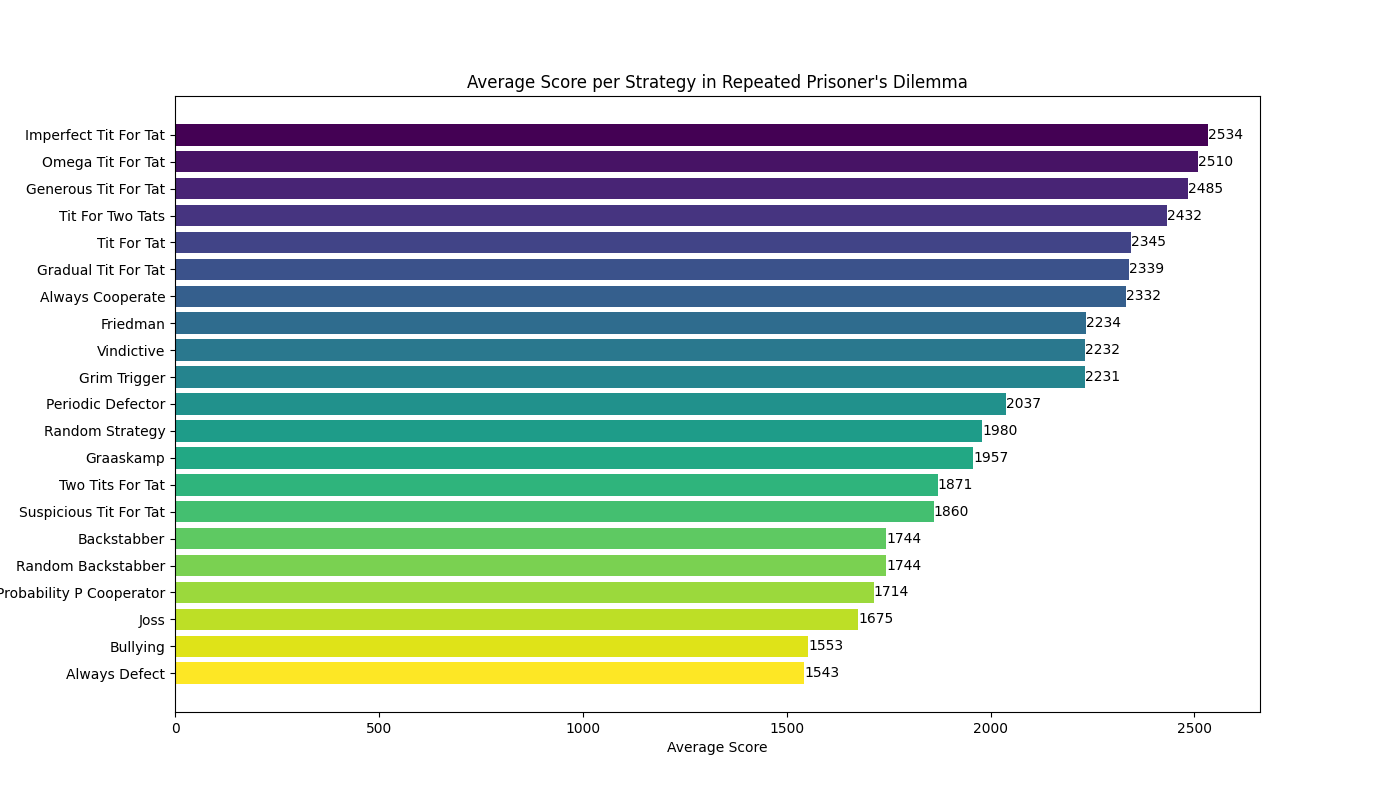
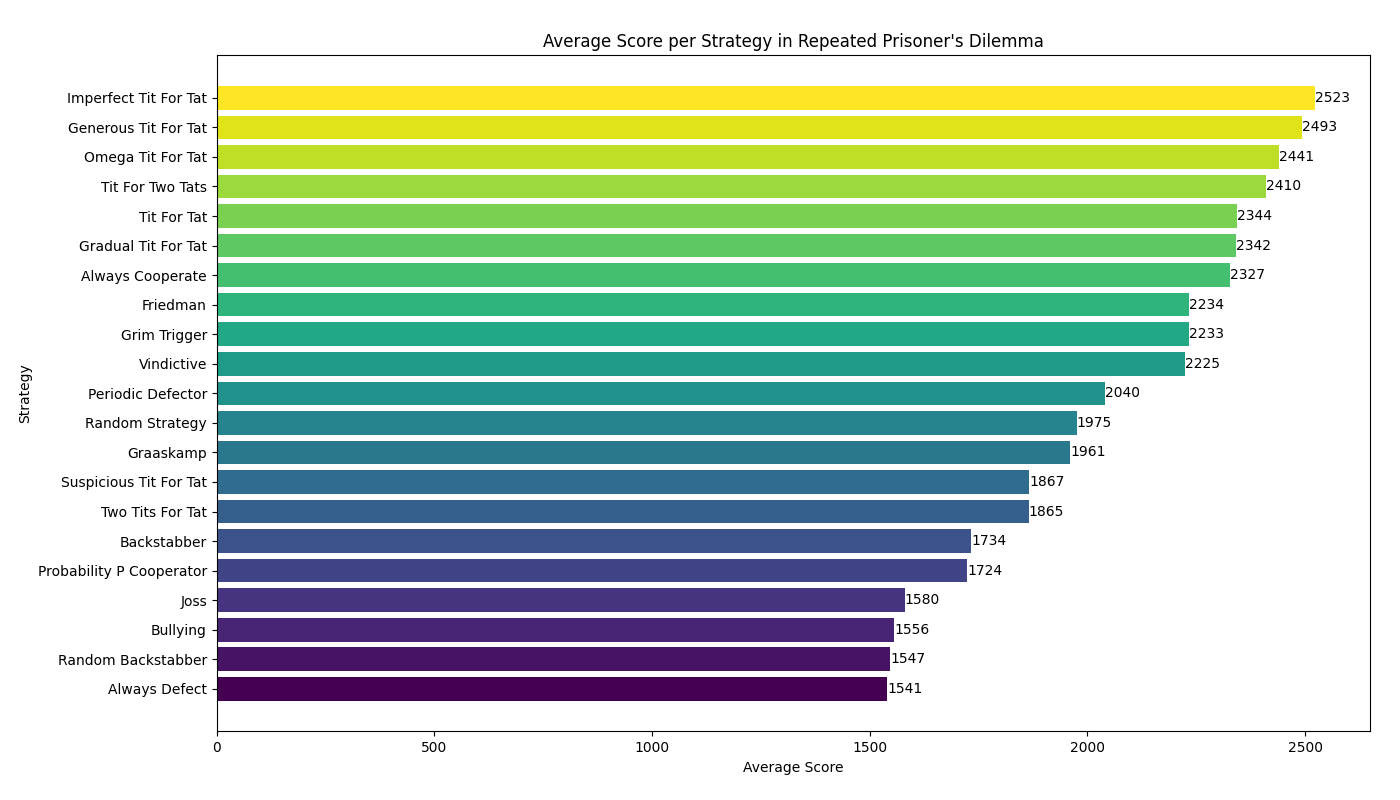
added a score matrix plot of the strategies

diff --git a/tournament.py b/tournament.py
@@ -48,7 +48,7 @@ for i, strategy1 in enumerate(strategy_list):
         strategy2_name = get_strategy_name(strategy2)
         results_summary.append((strategy1_name, strategy1_score, strategy2_name, strategy2_score))
 
-# Print summary of all matches
+### Terminal Output - Strategy vs Strategy
 print()
 print("Summary of all matches:")
 print()
@@ -59,7 +59,7 @@ for match in results_summary:
 
 print("-"*90)
 
-
+### Terminal Output - Average Score per Strategy
 # Get values for each strategy
 results_per_strategy = {get_strategy_name(strategy): [] for strategy in strategy_list}
 
@@ -84,15 +84,14 @@ for index, strategy in enumerate(average_score_per_strategy, start=1):
 print()
 print()
 
-
-# Visualization with colored bars
+### Leaderboard Plot - Average Score per Strategy
 strategies = list(average_score_per_strategy.keys())
 scores = list(average_score_per_strategy.values())
 
-colors = plt.cm.viridis(np.linspace(0, 1, len(strategies)))
+colors = plt.cm.viridis(np.linspace(0, 1, len(strategies))) # Viridis color map
 
 plt.figure(figsize=(14, 8))
-bars = plt.barh(strategies, scores, color=colors)
+bars = plt.barh(strategies, scores, color=colors[::-1])
 plt.xlabel('Average Score')
 plt.ylabel('Strategy')
 plt.title('Average Score per Strategy in Repeated Prisoner\'s Dilemma')
@@ -103,3 +102,23 @@ for bar, score in zip(bars, scores):
     plt.text(bar.get_width(), bar.get_y() + bar.get_height()/2, f'{round(score):}', va='center')
 
 plt.show()
+
+### Matrix Plot - Strategy vs Strategy
+strategies_names = [get_strategy_name(strategy) for strategy in strategy_list]
+scores_matrix = np.zeros((len(strategy_list), len(strategy_list)))
+
+for i, strategy1 in enumerate(strategy_list):
+    for j, strategy2 in enumerate(strategy_list):
+        for result in results_summary:
+            if result[0] == get_strategy_name(strategy1) and result[2] == get_strategy_name(strategy2):
+                scores_matrix[i, j] = result[1]
+
+plt.figure(figsize=(12, 12))
+plt.imshow(scores_matrix, cmap='viridis', interpolation='nearest')
+plt.colorbar(label='Score')
+plt.xticks(ticks=np.arange(len(strategies_names)), labels=strategies_names, rotation=90)
+plt.yticks(ticks=np.arange(len(strategies_names)), labels=strategies_names)
+plt.xlabel('Opponent Strategy')
+plt.ylabel('Strategy')
+plt.title('Score Matrix for Each Strategy Against Each Other')
+# plt.show()

diff --git a/README.md b/README.md
@@ -64,9 +64,13 @@ In this tournament, various strategies for the Repeated Prisoner's Dilemma will 
 
 By conducting this tournament, we can gain valuable insights into how different strategies perform in the long run and which approaches prove to be particularly robust or vulnerable to certain tactics. Those insights can then be applied in real world scenarios.
 
+### Score Matrix of every Strategy against each other
+
+![score-matrix]()
+
 ## Leaderboard
 
-![grafic](https://github.com/tombackert/game-theory/blob/main/average-score-per-strategy.png)
+![average-score-per-strategy](https://github.com/tombackert/game-theory/blob/main/average-score-per-strategy.png)
 
 ## Results
 
